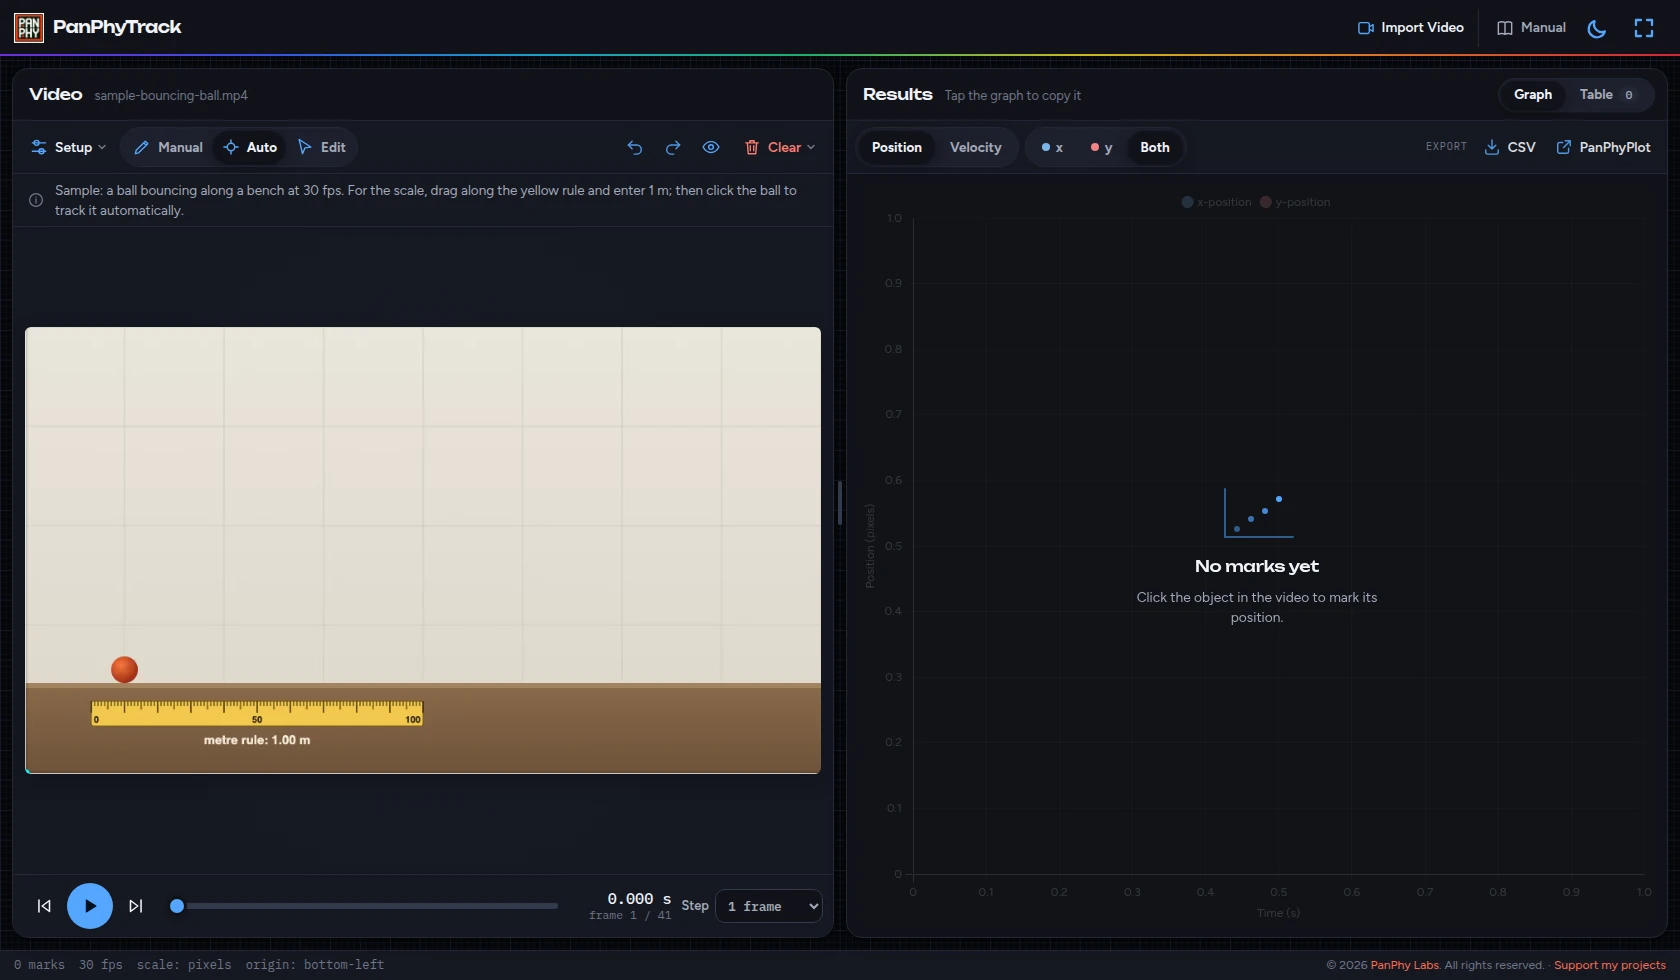
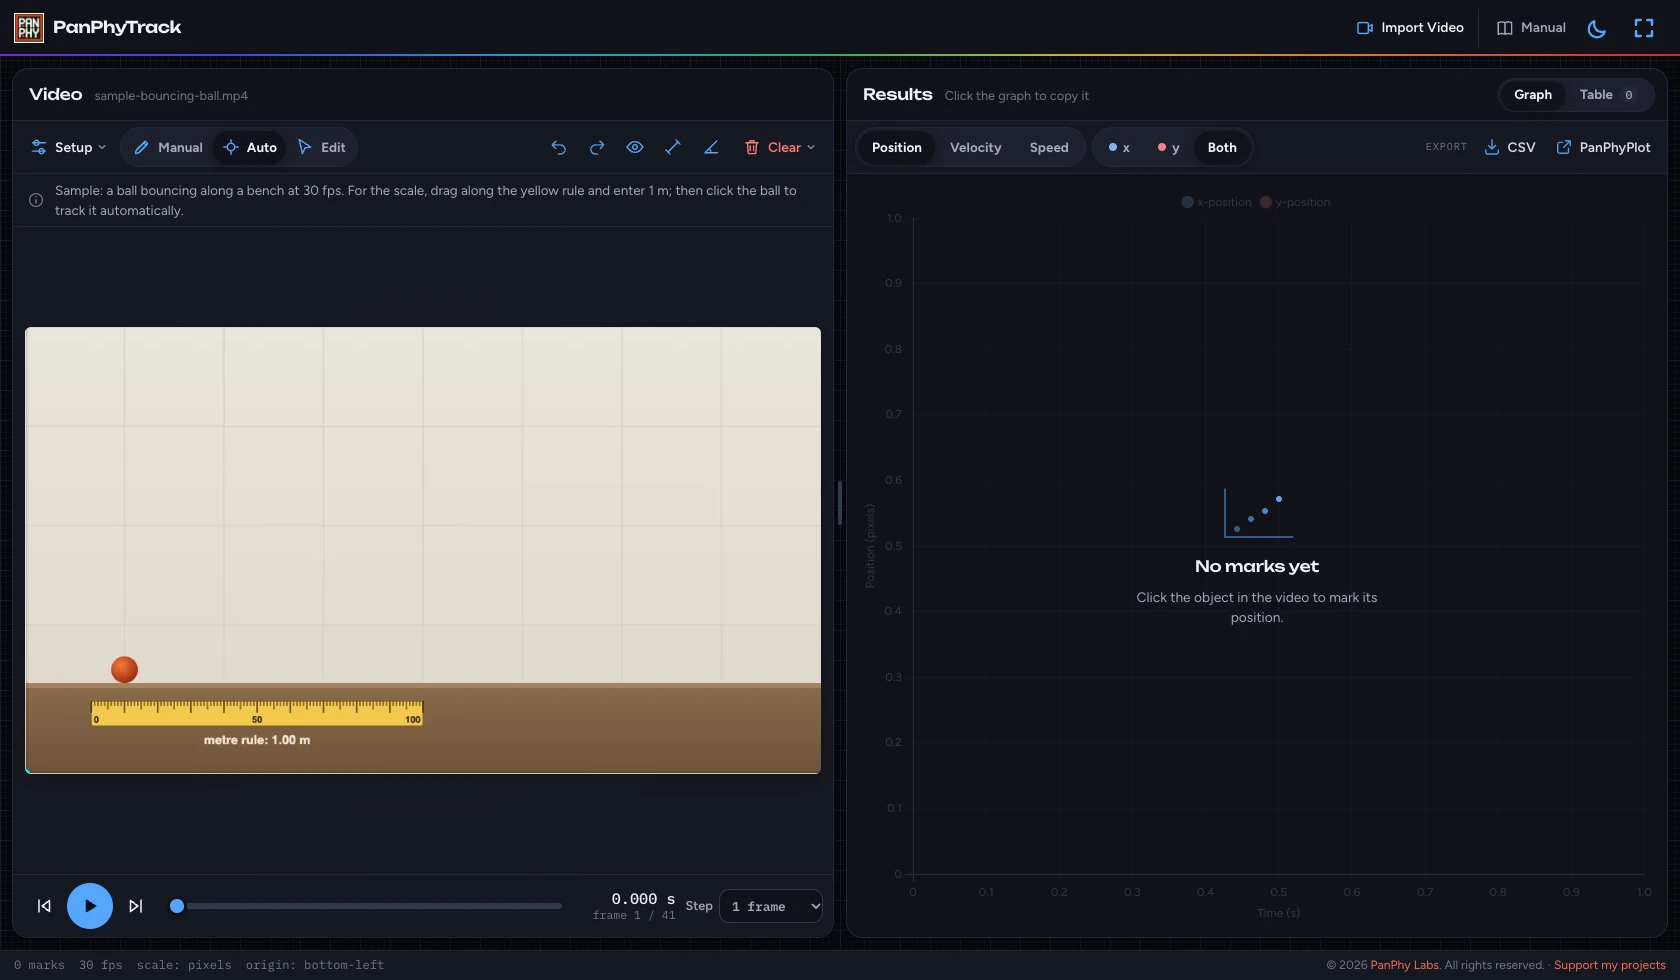
PanPhyTrack manual: retake the screenshots
They now show the Speed option and the Ruler and Protractor buttons, with
the scale line drawn end to end along the meter rule.

diff --git a/sw.js b/sw.js
@@ -1,4 +1,4 @@
-const BUILD_ID = '2026-11-11T13:25:38Z';
+const BUILD_ID = '2026-11-11T13:40:02Z';
 const CACHE_PREFIX = 'panphy-labs';
 const PRECACHE_NAME = `${CACHE_PREFIX}-precache-${BUILD_ID}`;
 const RUNTIME_CACHE = `${CACHE_PREFIX}-runtime-${BUILD_ID}`;
